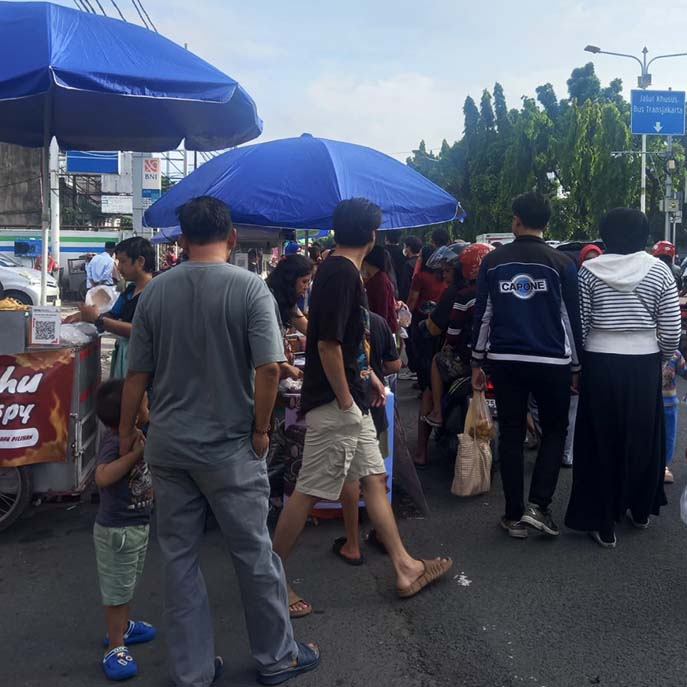
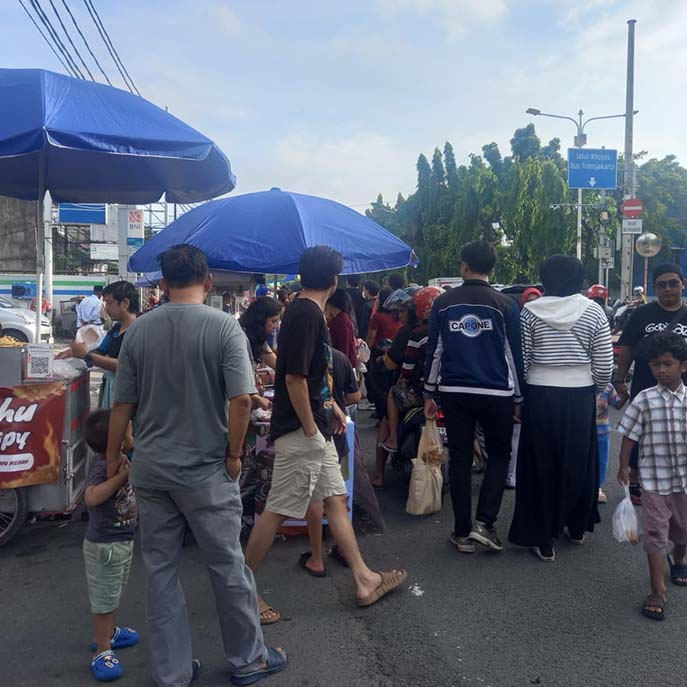
update

diff --git a/Pilihan/asinan-betawi-dan-rujak-juhi-diburu-warga.html b/Pilihan/asinan-betawi-dan-rujak-juhi-diburu-warga.html
@@ -18,19 +18,19 @@
 
     <!-- Open Graph (untuk WhatsApp, Facebook, LinkedIn) -->
     <meta property="og:type" content="Berita" />
-    <meta property="og:url" content="https://mediakelapadua.web.id/Pilihan/warga-padati-berbagai-lokasi-berburu-takjil-di-kelapa-dua.html" />
+    <meta property="og:url" content="https://mediakelapadua.web.id/Pilihan/asinan-betawi-dan-rujak-juhi-diburu-warga.html" />
     <meta property="og:title" content="Media Kelapa Dua" />
-    <meta property="og:description" content="Ratusan Warga Berburu Takjil di Jalan Panjang Arteri Kelapa Dua. Baca detailnya di sini!" />
-    <meta property="og:image" content="https://mediakelapadua.web.id/img/card/card7.jpg" />
+    <meta property="og:description" content="Asinan Betawi dan Rujak Juhi Diburu Warga di bulan Ramadhan. Baca detailnya di sini!" />
+    <meta property="og:image" content="https://mediakelapadua.web.id/img/card/card8.jpg" />
     <meta property="og:image:width" content="1200" />
     <meta property="og:image:height" content="630" />
 
     <!-- Twitter Card -->
     <meta name="twitter:card" content="summary_large_image" />
-    <meta name="twitter:url" content="https://mediakelapadua.web.id/Pilihan/warga-padati-berbagai-lokasi-berburu-takjil-di-kelapa-dua.html" />
+    <meta name="twitter:url" content="https://mediakelapadua.web.id/Pilihan/asinan-betawi-dan-rujak-juhi-diburu-warga.html" />
     <meta name="twitter:title" content="Media Kelapa Dua" />
-    <meta name="twitter:description" content="Ratusan Warga Berburu Takjil di Jalan Panjang Arteri Kelapa Dua. Baca detailnya di sini!" />
-    <meta name="twitter:image" content="https://mediakelapadua.web.id/img/card/card7.jpg" />
+    <meta name="twitter:description" content="Asinan Betawi dan Rujak Juhi Diburu Warga di bulan Ramadhan. Baca detailnya di sini!" />
+    <meta name="twitter:image" content="https://mediakelapadua.web.id/img/card/card8.jpg" />
 
     <!-- Google Icon Font -->
     <link href="https://fonts.googleapis.com/icon?family=Material+Icons" rel="stylesheet" />
@@ -46,7 +46,7 @@
     <link rel="stylesheet" href="../css/berita-box.css" />
     <link rel="stylesheet" href="../css/darkmode.css">
 
-    <title>Warga Padati Berbagai Lokasi Berburu Takjil di Kelapa Dua</title>
+    <title>Asinan Betawi dan Rujak Juhi Diburu Warga</title>
   </head>
   <body id="home" class="scrollspy">
 
@@ -113,19 +113,19 @@
 
       <!-- Konten -->
       <div class="col s12 m8">
-        <h5>Warga Padati Berbagai Lokasi Berburu Takjil di Kelapa Dua</h5>
+        <h5>Asinan Betawi dan Rujak Juhi Diburu Warga</h5>
 
           <p style="text-align: justify">
-          MediaKada | Tradisi berburu takjil di bulan Ramadan kembali menghadirkan suasana meriah di sejumlah titik keramaian di kawasan Kelapa Dua. Selain di Jalan Panjang Arteri Kelapa Dua yang setiap sore dipenuhi ratusan warga, terdapat pula beberapa lokasi lain yang tak kalah ramai. Jalan Raya Kelapa Dua RT 002/08, tepat di depan SDN Kelapa Dua 01 Pagi, menjadi salah satu pusat kuliner dadakan yang selalu dipadati pembeli. Begitu pula sepanjang Jalan H. Kelik Kelapa Dua, deretan pedagang takjil menjajakan aneka hidangan khas Ramadan.</p>
+          MediaKada | Kuliner tradisional khas Betawi kembali menjadi buruan warga saat berbuka puasa. Asinan Betawi dan Rujak Juhi, dua hidangan autentik yang menawarkan cita rasa segar, asam, manis, dan gurih, ramai dibeli masyarakat pada Minggu (22/02) petang.</p>
 
           <p style="text-align: justify">
-          Warga yang datang tidak hanya sekadar membeli makanan untuk berbuka, tetapi juga menikmati suasana ngabuburit yang penuh kebersamaan. Beragam menu ditawarkan, mulai dari gorengan, kolak pisang, biji salak, bubur sumsum, es pisang hijau, kue basah berwarna-warni, hingga minuman segar serta makanan berbuka lainnya.</p>
+          Seorang pedagang yang telah lama berjualan dengan gerobak di samping SPBU Kelapa Dua, tepatnya di dekat Planet Ban Jalan Panjang Arteri Kelapa Dua, menjadi pusat perhatian warga. Kehadirannya setiap bulan Ramadhan selalu ditunggu, karena menyajikan dua menu favorit yang jarang absen dari meja berbuka.</p>
 
-          <P style="text-align: justify;">Kehadiran pedagang musiman ini seolah menjadi magnet yang menghidupkan suasana Ramadan di tengah masyarakat.Aktivitas jual beli ini memberikan nilai lebih bagi pelaku UMKM, dan memberikan kesempatan untuk memperluas pasar sekaligus meningkatkan pendapatan. Ramadan pun bukan sekadar momentum ibadah, melainkan juga ruang tumbuh bagi ekonomi rakyat.</P>
+          <p class="quote">Asinan Betawi dikenal dengan perpaduan sayuran atau buah segar yang disiram kuah cuka encer, menghasilkan rasa segar yang khas. Sementara itu, Rujak Juhi menghadirkan sensasi berbeda dengan bumbu kacang kental, mie, sayuran, dan juhi—cumi kering hasil fermentasi yang menjadi bahan utama. Nama “Juhi” sendiri berasal dari pengaruh kuliner Tionghoa yang turut memperkaya tradisi Betawi.</P>
 
-          <p class="quote">Takjil, yang secara harfiah berarti “menyegerakan,” awalnya merujuk pada anjuran untuk segera membatalkan puasa. Namun, dalam keseharian masyarakat Indonesia, istilah ini telah bergeser makna menjadi makanan atau minuman ringan yang dikonsumsi saat berbuka. Meski bisa berupa apa saja, takjil lebih sering dipahami sebagai hidangan khas Ramadan yang hanya muncul di bulan suci.</p>
+          <p style="text-align: justify">Rujak Juhi biasanya dilengkapi dengan kol, kentang, selada, timun, serta kerupuk mie sebagai pelengkap. Kombinasi bahan segar dan saus kacang menjadikannya hidangan yang bukan hanya lezat, tetapi juga menyegarkan setelah seharian berpuasa.</p>
 
-          <p style="text-align: justify;">Fenomena ramainya lokasi berburu takjil di Kelapa Dua menunjukkan bagaimana tradisi kuliner Ramadan bukan sekadar soal makanan, melainkan juga tentang interaksi sosial, kebersamaan, dan atmosfer khas yang selalu dirindukan setiap tahun.</p>
+          <p style="text-align: justify;">Kehadiran pedagang kuliner ini menambah semarak suasana Ramadhan di Kelapa Dua, sekaligus menjaga keberlangsungan kuliner tradisional Betawi yang tetap digemari lintas generasi.</p>
 
           <p style="font-size: 12px;" text-align="justify" >(LMK-08 Kelapa dua)</p>
 

diff --git a/index.html b/index.html
@@ -754,9 +754,9 @@
               <div class="col s12 m6 l3">
                 <div class="card">
                   <div class="card-image pilihan-card responsive-img">
-                    <img src="img/ramadhan/flayer-ramadhan.jpg" alt="">
+                    <img src="img/card/card8.jpg" alt="">
 
-                    <a href="" class="icon-right">
+                    <a href="Pilihan/asinan-betawi-dan-rujak-juhi-diburu-warga.html" class="icon-right">
                       <i class="large material-icons white-text">add_circle</i>
                     </a>
 
@@ -765,7 +765,7 @@
                     </a>
                   </div>
                   <div class="card-content">
-                    <p>Info Ramadhan</p>
+                    <p>Asinan Betawi dan Rujak Juhi</p>
                   </div>
                 </div>
               </div>
@@ -773,8 +773,8 @@
               <!-- Modal Structure Card 4 -->
               <div id="modal-ramadhan4" class="modal">
                 <div class="modal-content">
-                  <h5>Info Ramadhan</h5>
-                  <p style="text-align: justify;"></p><br>
+                  <h5>Asinan Betawi dan Rujak Juhi Diburu Warga</h5>
+                  <p style="text-align: justify;"></p>Kuliner tradisional khas Betawi kembali menjadi buruan warga saat berbuka puasa. Asinan Betawi dan Rujak Juhi, dua hidangan autentik yang menawarkan cita rasa segar, asam, manis, dan gurih, ramai dibeli masyarakat pada Minggu (22/02) petang.<br>
                   <p>Info selanjutnya klik icon Plus (+)</p>
                 </div>
                 <div class="modal-footer">
